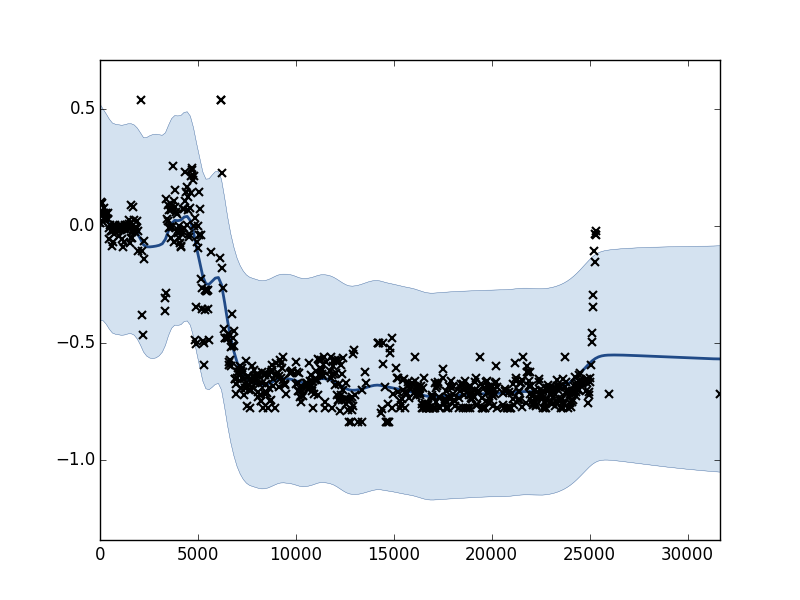
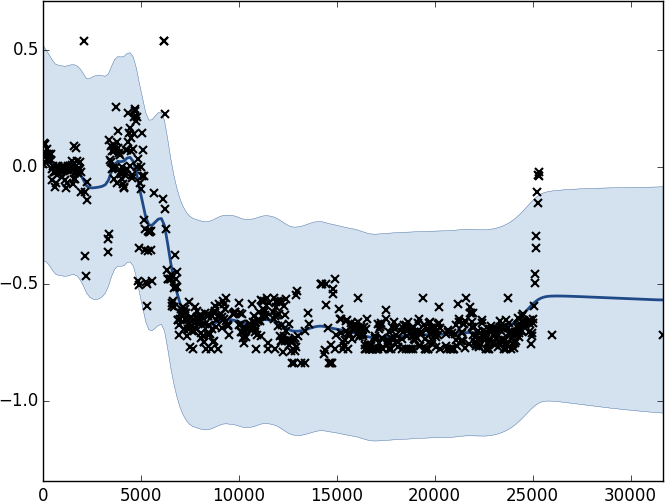
autocommit report

diff --git a/report/report.tex b/report/report.tex
@@ -54,17 +54,17 @@ In our GP model, each individual is modelled with a separate Gaussian Process. F
 
 \subsection{2.2  Qualitative Advantages}
 
-The use of the GP model in the application enables us to use all the samples and feature information to perform the prediction, while allowing the training data to have different or uneven sampling rates. Particularly, in our dataset, not all the participants have their position data sampled at the same timestamps, and all of them might not have the same number of sample points. The event also spans multiple days, and so there are periods of time with no position data.
+The use of the GP model in the application enables us to use all the samples and feature information to perform the prediction, while allowing the training data to have different or uneven sampling rates. Particularly, in our dataset, not all the participants have their position data sampled at the same timestamps, and all of them might not have the same number of sample points. The event also spans multiple days, and so there are even periods of time with no position data.
 
-The GP model also provides, provide a probability distribution (through mean and variance values) of each individual's position at each point of time, as illustrated in Figure \ref{fig:GP1}. A probability distribution allows us to compute the proportion of the crowd at any point of time, over any defined region. \\
+One key advantage of the GP model is that it generates a probability distribution (through mean and variance values) of each individual's position at every point of time, as illustrated in Figure \ref{fig:GP1}. As shown later below, this probability distribution allows us to compute the density of the crowd at any point of time, over any defined region. \\
 
-The usual approach to interpolating between is through traditional curve-fitting algorithms like the cubic spline. However, these methods do not cater to noisy data as well as Gaussian Processes do, and unlike Gaussian Processes, do not provide a probability distribution, which is important for our method of integrating over regions we are interested in to obtain expected crowd densities.\\
+The usual approach for interpolating data is through traditional curve-fitting algorithms like the cubic spline. However, these methods do not cater to noisy data as well as Gaussian Processes do, and unlike Gaussian Processes, do not provide a probability distribution, nor variances, which are important for our method of integrating over regions we are interested in to obtain expected crowd densities.\\
 
-A Gaussian model is a good fit is because of the correlation between the current position of each individual and the future positions. The coordinates of the each individual is thus modelled as a trajectory over time. There have been past usages of the GP model for trajectory prediction in data. For example, in a paper by {\it Marco A. F. Pimentel, David A. Clifton, Lionel Tarassenko}, Gaussian Processes were used to model the trajectory of human vital signs.
+A Gaussian model is a good fit is because of the correlation between the current position of each individual and the future positions. The coordinates of the each individual is thus modelled as a trajectory over time. For example, a person who is moving slowly (close together data points over time) would have a lower variance in position, wihle a fast-moving person (far apart data points within a short time span) will have a higher variance, as the person's exact position is more unpredictable. There have been past usages of the GP model for trajectory prediction in data. For example, in a paper by {\it Marco A. F. Pimentel, David A. Clifton, Lionel Tarassenko}, Gaussian Processes were used to model the trajectory of human vital signs.
 
 \begin{figure}[!h]
   \centering
-    \includegraphics[width=230px,natwidth=665,natheight=361]{selected_GP/3056.csv_X.png}
+    \includegraphics[width=230px,natwidth=665,natheight=391]{selected_GP/3056.csv_X.png}
   \caption{$x$-coordinate of Tag 3056 plotted against time. (with mean and variance derived from the Gaussian Process model)}
   \label{fig:GP1}
 \end{figure}
@@ -102,17 +102,19 @@ In our experiment, we do a simplified version of our model, using independent GP
 
 \subsection{3.1  Implementation Details}
 
-In order to support the use of big data and the data of different demographics, we experimented with several families of kernel functions including the Radial Basis function (RBF), Exponential function, Matern52, Matern32 and Multilayer Perceptron (MLP). The experiments conducted involved varying their respective parameters such as noise values, relaxing or fixing constraints, changing initial values and inducing points and combining with various White and Bias kernels. Finally, the combination of kernel functions that yield consistent results as observed cross different samples from our dataset is selected to build our GP model for further application. In our case, we found out that MLP with a bias is the most effective way of representing the big data that we have.\\
+In order to support the use of big data and the data of different demographics, we experimented with several families of kernel functions including the Radial Basis function (RBF), Exponential function, Matern52, Matern32 and Multilayer Perceptron (MLP).\\
+
+The experiments conducted involved varying their respective parameters such as noise values, relaxing or fixing constraints, changing initial values and inducing points and combining with various White and Bias kernels. Finally, the combination of kernel functions that yield consistent results as observed cross different samples from our dataset is selected to build our GP model for further application. In our case, we found out that MLP with a bias is the most effective way of representing the big data that we have.\\
 
 We extract the X, Y and Z coordinates from the position data and perform the regression against the timestamps provided in the dataset. We also generate a common set of timestamps to predict the user movements against, in which we generate the mean and variance from the output of the GP we had earlier regressed. \\
 
-The Sheffield GPy library was used for the GP modelling and regression. Python offers many useful libraries like Scipy, Numpy and Pandas, which provide useful data analysis tools for our dataset, as well numerical analysis tools like numerical integration.\\
+The Sheffield GPy library (Python) was used for the GP modelling and regression. Python offers many useful libraries like Scipy, Numpy and Pandas, which provide useful data analysis tools for our dataset, as well numerical analysis tools like numerical integration.\\
 
 The two methods we have chosen to regress our model are either the Stochastic Variational Inference method using the climin module or the AdaDelta rule and direct optimization using BFGS method. Through observing the results from several samples of our dataset, the latter is found to provide more desirable results and more suitable to be used in our propose application. Therefore, it is chosen for further experiments. Figure \ref{fig:GP1} and Figure \ref{fig:GP2} show the output of two such regressions for users 3056 and 3064.
 
 \begin{figure}[h!]
   \centering
-    \includegraphics[width=230px,natwidth=665,natheight=361]{selected_GP/3064.csv_Y.png}
+    \includegraphics[width=230px,natwidth=665,natheight=391]{selected_GP/3064.csv_Y.png}
   \caption{$y$-coordinate of Tag 3064 plotted against time. (with mean and variance derived from the Gaussian Process model)}
   \label{fig:GP2}
 \end{figure}
@@ -138,7 +140,7 @@ Be default we regress the $(x,y,z)$ coordinates of each individual as it is conv
 
 \begin{figure}[h!]
   \centering
-    \includegraphics[width=150px,natwidth=570,natheight=402]{openspace2.png}
+    \includegraphics[width=150px,natwidth=570,natheight=442]{openspace2.png}
   \caption{Points with similar $x$ and $y$ coordinates in a less open space}
   \label{fig:opspace2}
 \end{figure}
@@ -213,10 +215,16 @@ data using the GP model and MLP with a bias constant, we demonstrated that our a
 
 \section{6. Main Roles of Each Member}
 \begin{enumerate}
-\item Wei Ling: Writing the report, research.
-\item Nathan: Experimental setup and coding.
-\item Lynnette / Thien: Setting up and experimenting with the Gaussian Process models
-\item Shunhao: Problem formulation and modelling, mathematics, visualisations.
+\item \textbf{Wei Ling}: 
+Writing of the report, keeping track of requirements, and research.
+\item \textbf{Nathan}: 
+Setting up of the experiment and running the tests using the dataset.
+\item \textbf{Lynnette}: 
+Setting up and experimenting with the various libraries and available tools, and fine-tuning the Gaussian Process models
+\item \textbf{Thien}: 
+Setting up and experimenting with the various libraries and available tools, and fine-tuning the Gaussian Process models
+\item \textbf{Shunhao}: 
+Problem formulation and modelling, mathematics, creating the visualisations and experiment, and writing the report.
 \end{enumerate}
 
 \section{7.  References}
